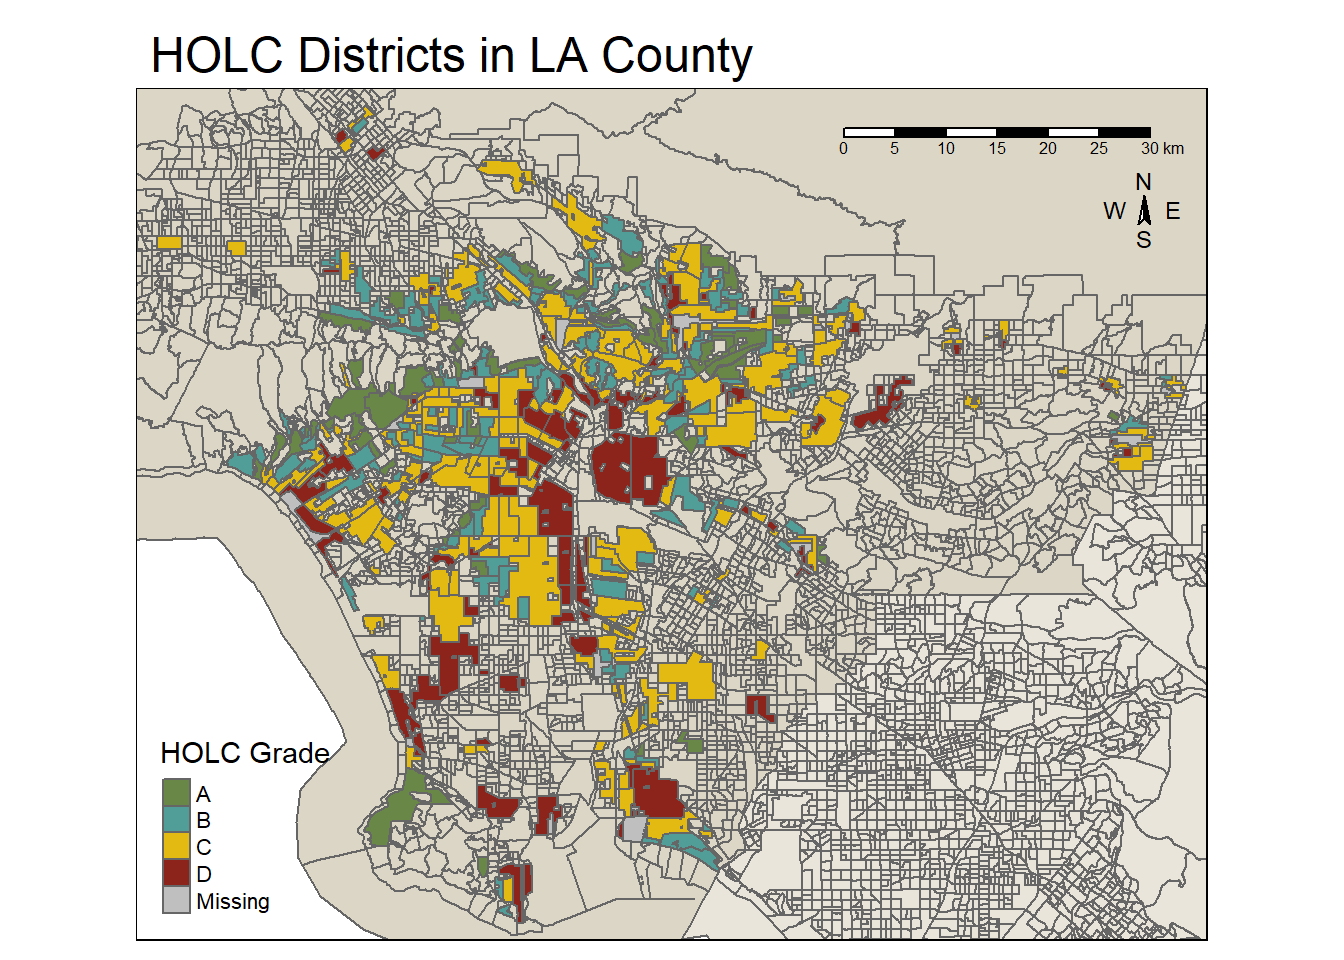
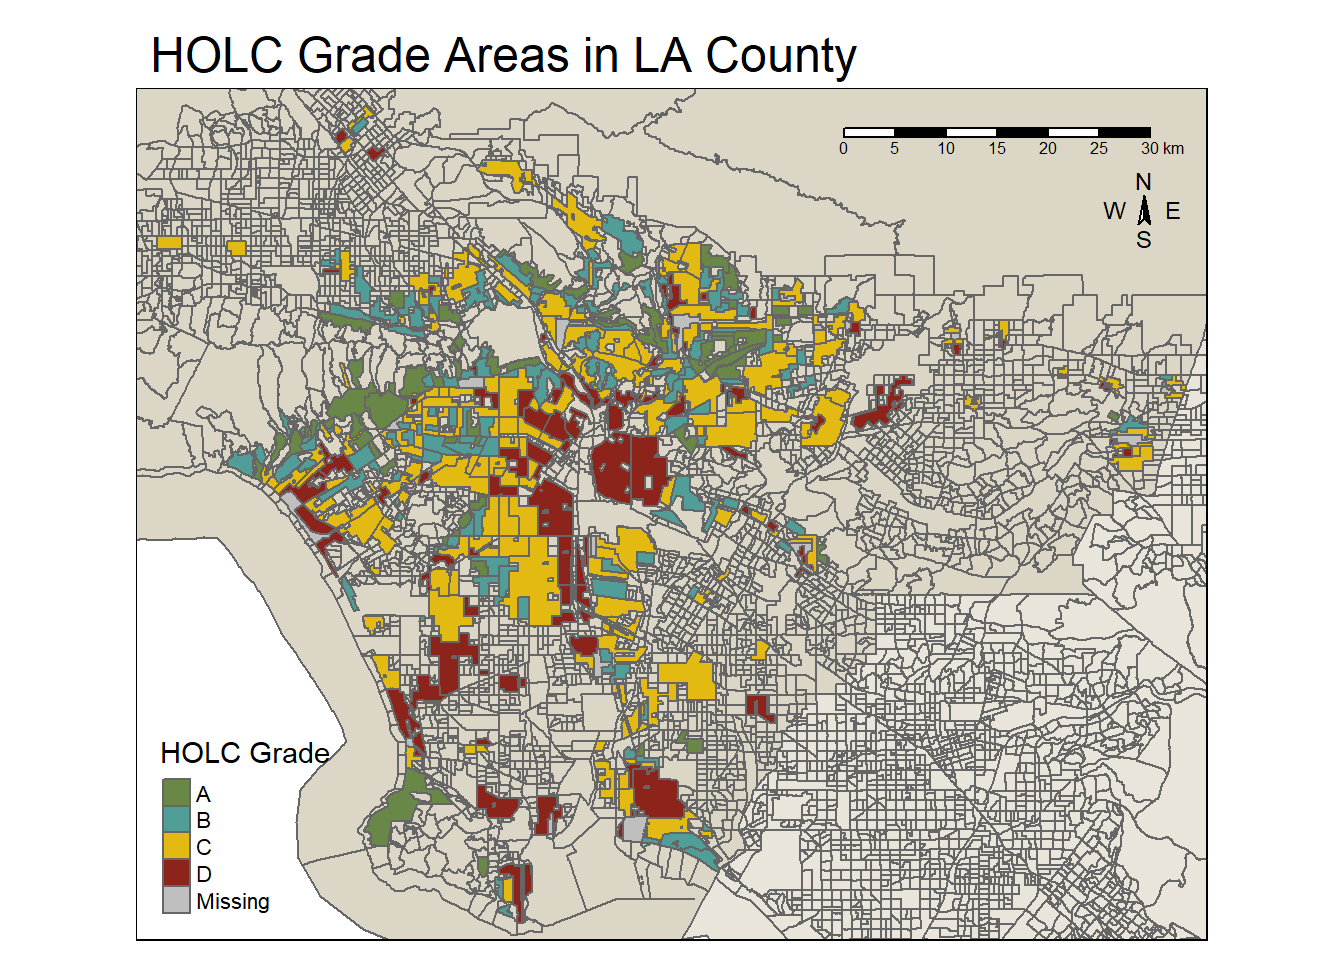
Final commit

Changed region(s): [[0.2188, 0.0312, 0.6562, 0.0938]]

diff --git a/HW2.html b/HW2.html
@@ -81,10 +81,13 @@ pre > code.sourceCode > span > a:first-child::before { text-decoration: underlin
     <h2 id="toc-title">Table of contents</h2>
    
   <ul>
-  <li><a href="#part-1-legacy-of-redlining-in-current-environmental-injustice" id="toc-part-1-legacy-of-redlining-in-current-environmental-injustice" class="nav-link active" data-scroll-target="#part-1-legacy-of-redlining-in-current-environmental-injustice">Part 1: Legacy of redlining in current environmental (in)justice</a></li>
-  <li><a href="#do-the-test-that-on-the-units-for-pm" id="toc-do-the-test-that-on-the-units-for-pm" class="nav-link" data-scroll-target="#do-the-test-that-on-the-units-for-pm">Do the test that on the units for pm</a>
+  <li><a href="#part-1-legacy-of-redlining-in-current-environmental-injustice" id="toc-part-1-legacy-of-redlining-in-current-environmental-injustice" class="nav-link active" data-scroll-target="#part-1-legacy-of-redlining-in-current-environmental-injustice">Part 1: Legacy of redlining in current environmental (in)justice</a>
   <ul class="collapse">
-  <li><a href="#part-2-legacy-of-redlining-in-biodiversity-observations" id="toc-part-2-legacy-of-redlining-in-biodiversity-observations" class="nav-link" data-scroll-target="#part-2-legacy-of-redlining-in-biodiversity-observations">Part 2: Legacy of redlining in biodiversity observations</a></li>
+  <li><a href="#looking-at-the-data" id="toc-looking-at-the-data" class="nav-link" data-scroll-target="#looking-at-the-data">Looking At The Data</a></li>
+  </ul></li>
+  <li><a href="#part-2-legacy-of-redlining-in-biodiversity-observations" id="toc-part-2-legacy-of-redlining-in-biodiversity-observations" class="nav-link" data-scroll-target="#part-2-legacy-of-redlining-in-biodiversity-observations">Part 2: Legacy of redlining in biodiversity observations</a>
+  <ul class="collapse">
+  <li><a href="#looking-at-the-data-1" id="toc-looking-at-the-data-1" class="nav-link" data-scroll-target="#looking-at-the-data-1">Looking At The Data</a></li>
   </ul></li>
   </ul>
 </nav>
@@ -194,7 +197,7 @@ pre > code.sourceCode > span > a:first-child::before { text-decoration: underlin
 <span id="cb5-14"><a href="#cb5-14" aria-hidden="true" tabindex="-1"></a>              <span class="at">size =</span> <span class="dv">1</span>, </span>
 <span id="cb5-15"><a href="#cb5-15" aria-hidden="true" tabindex="-1"></a>              <span class="at">text.size =</span> .<span class="dv">75</span>,</span>
 <span id="cb5-16"><a href="#cb5-16" aria-hidden="true" tabindex="-1"></a>              <span class="at">position =</span> <span class="fu">c</span>(<span class="st">"right"</span>, <span class="st">"top"</span>)) <span class="sc">+</span> </span>
-<span id="cb5-17"><a href="#cb5-17" aria-hidden="true" tabindex="-1"></a>   <span class="fu">tm_layout</span>(<span class="at">main.title =</span> <span class="st">"HOLC Districts in LA County"</span>)</span></code><button title="Copy to Clipboard" class="code-copy-button"><i class="bi"></i></button></pre></div>
+<span id="cb5-17"><a href="#cb5-17" aria-hidden="true" tabindex="-1"></a>   <span class="fu">tm_layout</span>(<span class="at">main.title =</span> <span class="st">"HOLC Grade Areas in LA County"</span>)</span></code><button title="Copy to Clipboard" class="code-copy-button"><i class="bi"></i></button></pre></div>
 </details>
 <div class="cell-output-display">
 <div>
@@ -280,22 +283,22 @@ pre > code.sourceCode > span > a:first-child::before { text-decoration: underlin
 <div class="cell">
 <details class="code-fold">
 <summary>Code</summary>
-<div class="sourceCode cell-code" id="cb15"><pre class="sourceCode r code-with-copy"><code class="sourceCode r"><span id="cb15-1"><a href="#cb15-1" aria-hidden="true" tabindex="-1"></a><span class="fu">kable</span>(sum_current_conditions_table, <span class="at">col.names =</span> <span class="fu">c</span>(<span class="st">"HOLC Grade"</span>, <span class="st">"Low Income Percentage"</span>, <span class="st">"PM2.5 Mean Percentile"</span>, <span class="st">"Life Expectancy Percentile"</span>))</span></code><button title="Copy to Clipboard" class="code-copy-button"><i class="bi"></i></button></pre></div>
+<div class="sourceCode cell-code" id="cb15"><pre class="sourceCode r code-with-copy"><code class="sourceCode r"><span id="cb15-1"><a href="#cb15-1" aria-hidden="true" tabindex="-1"></a><span class="fu">kable</span>(sum_current_conditions_table, <span class="at">col.names =</span> <span class="fu">c</span>(<span class="st">"HOLC Grade"</span>, <span class="st">"Low Income Percentage"</span>, <span class="st">"PM2.5 Mean Percentile"</span>, <span class="st">"Low Life Expectancy Percentile"</span>))</span></code><button title="Copy to Clipboard" class="code-copy-button"><i class="bi"></i></button></pre></div>
 </details>
 <div class="cell-output-display">
 <table class="caption-top table table-sm table-striped small">
 <colgroup>
-<col style="width: 13%">
-<col style="width: 26%">
-<col style="width: 26%">
-<col style="width: 32%">
+<col style="width: 12%">
+<col style="width: 25%">
+<col style="width: 25%">
+<col style="width: 36%">
 </colgroup>
 <thead>
 <tr class="header">
 <th style="text-align: left;">HOLC Grade</th>
 <th style="text-align: right;">Low Income Percentage</th>
 <th style="text-align: right;">PM2.5 Mean Percentile</th>
-<th style="text-align: right;">Life Expectancy Percentile</th>
+<th style="text-align: right;">Low Life Expectancy Percentile</th>
 </tr>
 </thead>
 <tbody>
@@ -333,9 +336,6 @@ pre > code.sourceCode > span > a:first-child::before { text-decoration: underlin
 </table>
 </div>
 </div>
-</section>
-<section id="do-the-test-that-on-the-units-for-pm" class="level1">
-<h1>Do the test that on the units for pm</h1>
 <div class="cell">
 <details class="code-fold">
 <summary>Code</summary>
@@ -387,6 +387,11 @@ pre > code.sourceCode > span > a:first-child::before { text-decoration: underlin
 </div>
 </div>
 </div>
+<section id="looking-at-the-data" class="level3">
+<h3 class="anchored" data-anchor-id="looking-at-the-data">Looking At The Data</h3>
+<p>When looking at the geographical map of Los Angeles County, we can see that many of the grade C and D HOLC areas are clustered in the center of the city, whereas the A and B grade areas are more prominent on the outskirts. The tables and graphs on income level, particulate matter, and life expectancy show that areas affected by redlining have lower incomes, more particulate matter in the air, and lower life expectancies. These findings illustrate that redlining has had a negative impact on those living in these areas</p>
+</section>
+</section>
 <section id="part-2-legacy-of-redlining-in-biodiversity-observations" class="level2">
 <h2 class="anchored" data-anchor-id="part-2-legacy-of-redlining-in-biodiversity-observations">Part 2: Legacy of redlining in biodiversity observations</h2>
 <div class="cell">
@@ -461,6 +466,14 @@ pre > code.sourceCode > span > a:first-child::before { text-decoration: underlin
 </div>
 </div>
 </div>
+<section id="looking-at-the-data-1" class="level3">
+<h3 class="anchored" data-anchor-id="looking-at-the-data-1">Looking At The Data</h3>
+<p>Our data show that the majority of bird observations have been done within the C HOLC grade area. The second most common grades are the A and D grade areas. This is unexpected because previous data has shown that there are fewer bird observations in heavily redlined areas (Ellis-Soto et al., 2023). This indicates that there may be a more complex relationship between bird observations and redlining that could be investigated in the future.</p>
+<p><strong>Citations:</strong></p>
+<p>Ellis-Soto, D., Chapman, M., &amp; Locke, D. H. (2023). Historical redlining is associated with increasing geographical disparities in bird biodiversity sampling in the United States. Nature Human Behaviour, 1-9</p>
+<p>GBIF.org, gbif-birds-LA&nbsp;dataset</p>
+<p>Robert K. Nelson, LaDale Winling, Richard Marciano, Nathan Connolly, et al., “Mapping Inequality,” American Panorama, ed.&nbsp;Robert K. Nelson and Edward L. Ayers, accessed October 24, 2023</p>
+<p>U.S. Environmental Protection Agency (EPA), 2024. EJScreen Technical Documentation, accessed October 24, 2023</p>
 </section>
 </section>
 
